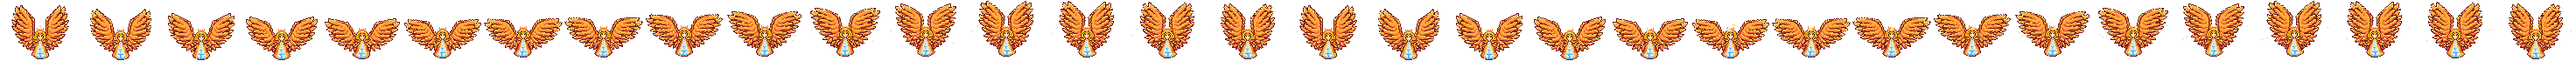
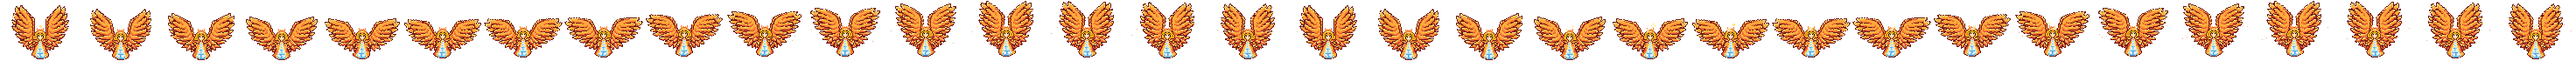
Mary-Animation: Arme ruhiger (16er-Takt), flache Ellipse und Nachhängen, in jedem Frame in Bewegung
Claude-Session: https://claude.ai/code/session_01RGNNCJqx66xqfQieuakpGz

diff --git a/scripts/hero-animations/mary.py b/scripts/hero-animations/mary.py
@@ -163,12 +163,18 @@ def warp_row(row, xa, xb, d, side):
 
 
 def arm_swing(y, i):
-    """Seitlicher Ausschlag des Arms in Zeile y (> 0: nach außen). Drei Schwünge je Schleife (alle ≈ 0,75 s), dazu eine langsamere Welle
-    (zwei Schwingungen je Schleife), die manche Schwünge stärker ausfallen lässt; nach unten hängen die Zeilen etwas hinterher.
-    Die Hand ändert ihre Lage in drei von vier Frames, die längste Pause an einem Umkehrpunkt dauert drei Frames."""
+    """Seitlicher Ausschlag des Arms in Zeile y (> 0: nach außen). Ein ruhiger Schwung je 16 Frames (≈ 1,1 s, zwei je Schleife); nach unten
+    hängen die Zeilen deutlich hinterher (Pendel), sodass auch dann etwas in Bewegung ist, wenn die Hand am Umkehrpunkt steht."""
     w = min(1.0, max(0.0, (y - 37) / 6.0))
     t = 2 * math.pi * (i % N) / N
-    return w * (0.4 + 2.3 * math.sin(3 * t - 1.6 - 0.25 * (y - 37)) + 0.6 * math.sin(2 * t - 0.5))
+    return w * (0.3 + 2.2 * math.sin(2 * t - 1.6 - 0.5 * (y - 37)))
+
+
+def arm_dy(i):
+    """Der ganze Arm sinkt dabei um 0–1 Zeile ab und hebt sich wieder, gegenläufig zum seitlichen Schwung: steht die Hand seitlich am
+    Umkehrpunkt, bewegt sie sich gerade senkrecht (der Weg ist eine flache Ellipse, keine Pause)."""
+    t = 2 * math.pi * (i % N) / N
+    return int(math.floor(0.5 + 0.5 * math.sin(2 * t - 1.6 + math.pi / 2) + 0.5))
 
 
 def body_layer(i):
@@ -186,15 +192,16 @@ def body_layer(i):
             out[y, lo:hi + 1] = np.where(seg[lo:hi + 1, 3:4] > 0, seg[lo:hi + 1], out[y, lo:hi + 1])
     # 2) Arme schlackern seitwärts, jeder Arm als Einheit (Ärmel samt Hand und äußerem Umriss, siehe ARMS) um die Schulter: die obersten Zeilen
     #    bewegen sich kaum, die Hand am weitesten (Scherung ≈ Drehung), und die unteren Zeilen hängen dem Schwung leicht hinterher (Pendel).
-    #    Drei Schwünge je Schleife (≈ 0,75 s) mit langsamer Überlagerung; die Hand ändert ihre Lage in drei von vier Frames.
+    #    Ein Schwung je 16 Frames (≈ 1,1 s) auf flacher Ellipse (seitlich plus 0–1 Zeile senkrecht), die Form des Arms ändert sich in jedem Frame.
     #    Nach außen bis 3 px, nach innen bis 2 px. Das Kleid bleibt stehen; wo der Arm war, scheinen die Flügel dahinter durch.
     for side in (-1, 1):
         px_ = {(y, x): out[y, x].copy() for y, x in ARMS[side]}
         for (y, x) in px_:
             out[y, x] = 0
+        dy = arm_dy(i)
         for (y, x), c in px_.items():
             dx = max(-2, min(3, int(round(arm_swing(y, i)))))
-            out[y, x + side * dx] = c
+            out[y + dy, x + side * dx] = c
     # 3) Saum schwingt
     for y in range(48, 56):
         dx = int(round(math.sin(ph - 2.2 - 0.3 * (y - 47)) * (y - 47) / 7.0 * 1.2))
